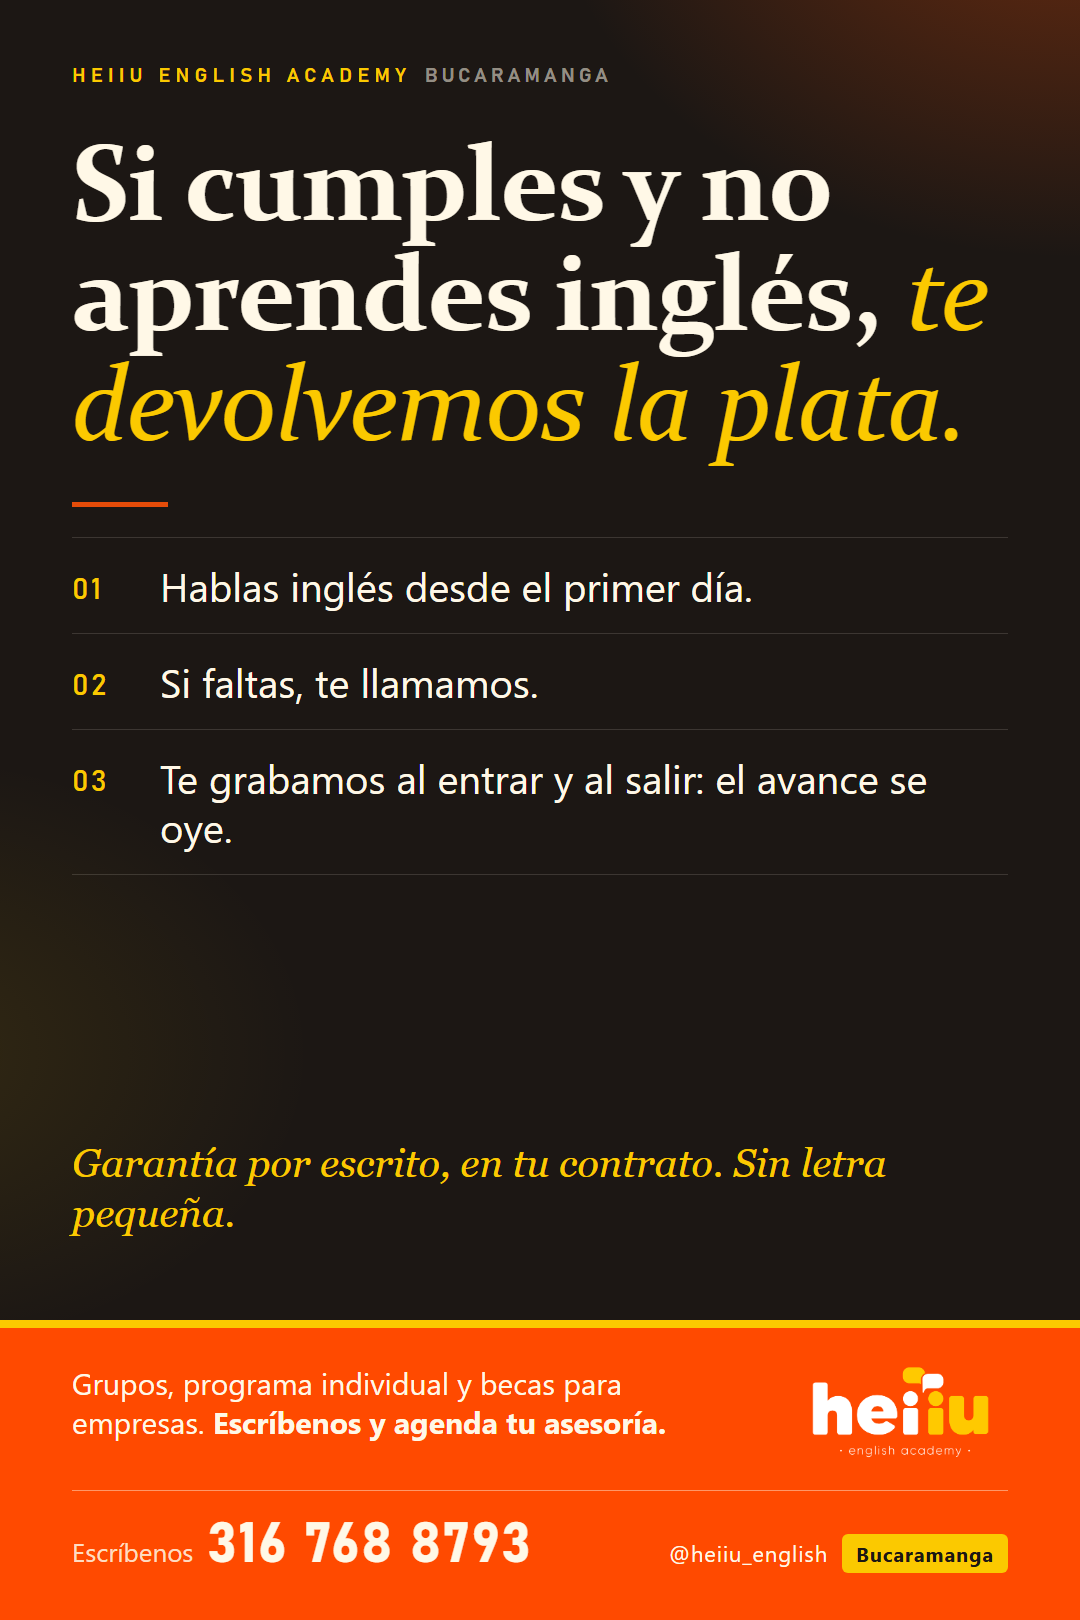
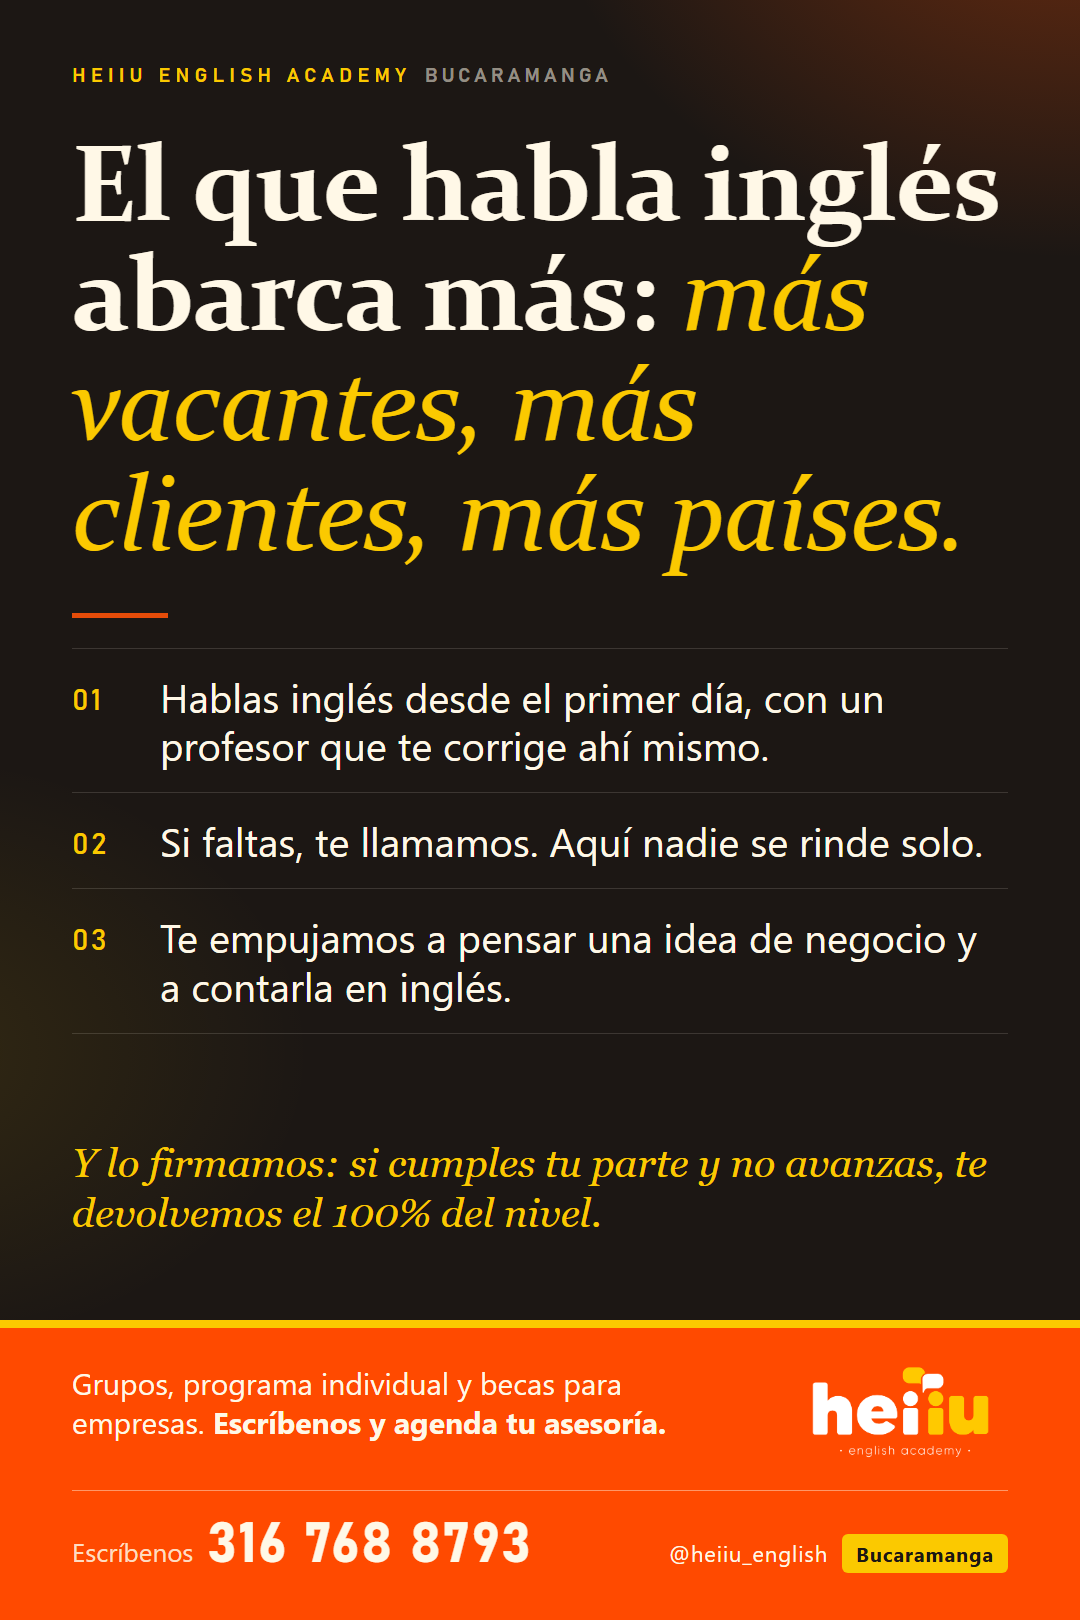
Volante de calle A: 'el que habla ingles abarca mas' + profesor que corrige, si faltas te llamamos, idea de negocio, garantia firmada

diff --git a/generadores/comercial/gen_piezas_conciencia.py b/generadores/comercial/gen_piezas_conciencia.py
@@ -368,9 +368,11 @@ PIEZAS = {
     # ---------------- CALLE (volanteo: una idea, tres lineas, el numero; sin datos ni precios) ----------------
     'CALLE_A': dict(
         calle=True, label='HEIIU ENGLISH ACADEMY', sub='BUCARAMANGA',
-        h1='Si cumples y no aprendes inglés, <em>te devolvemos la plata.</em>',
-        st=[('Hablas inglés desde el primer día.'), ('Si faltas, te llamamos.'), ('Te grabamos al entrar y al salir: el avance se oye.')],
-        lead='Garantía por escrito, en tu contrato. Sin letra pequeña.', big='', big2='',
+        h1='El que habla inglés abarca más: <em>más vacantes, más clientes, más países.</em>',
+        st=[('Hablas inglés desde el primer día, con un profesor que te corrige ahí mismo.'),
+            ('Si faltas, te llamamos. Aquí nadie se rinde solo.'),
+            ('Te empujamos a pensar una idea de negocio y a contarla en inglés.')],
+        lead='Y lo firmamos: si cumples tu parte y no avanzas, te devolvemos el 100% del nivel.', big='', big2='',
         band='Grupos, programa individual y becas para empresas. <b>Escríbenos y agenda tu asesoría.</b>',
         band_px=300),
     'CALLE_B': dict(
